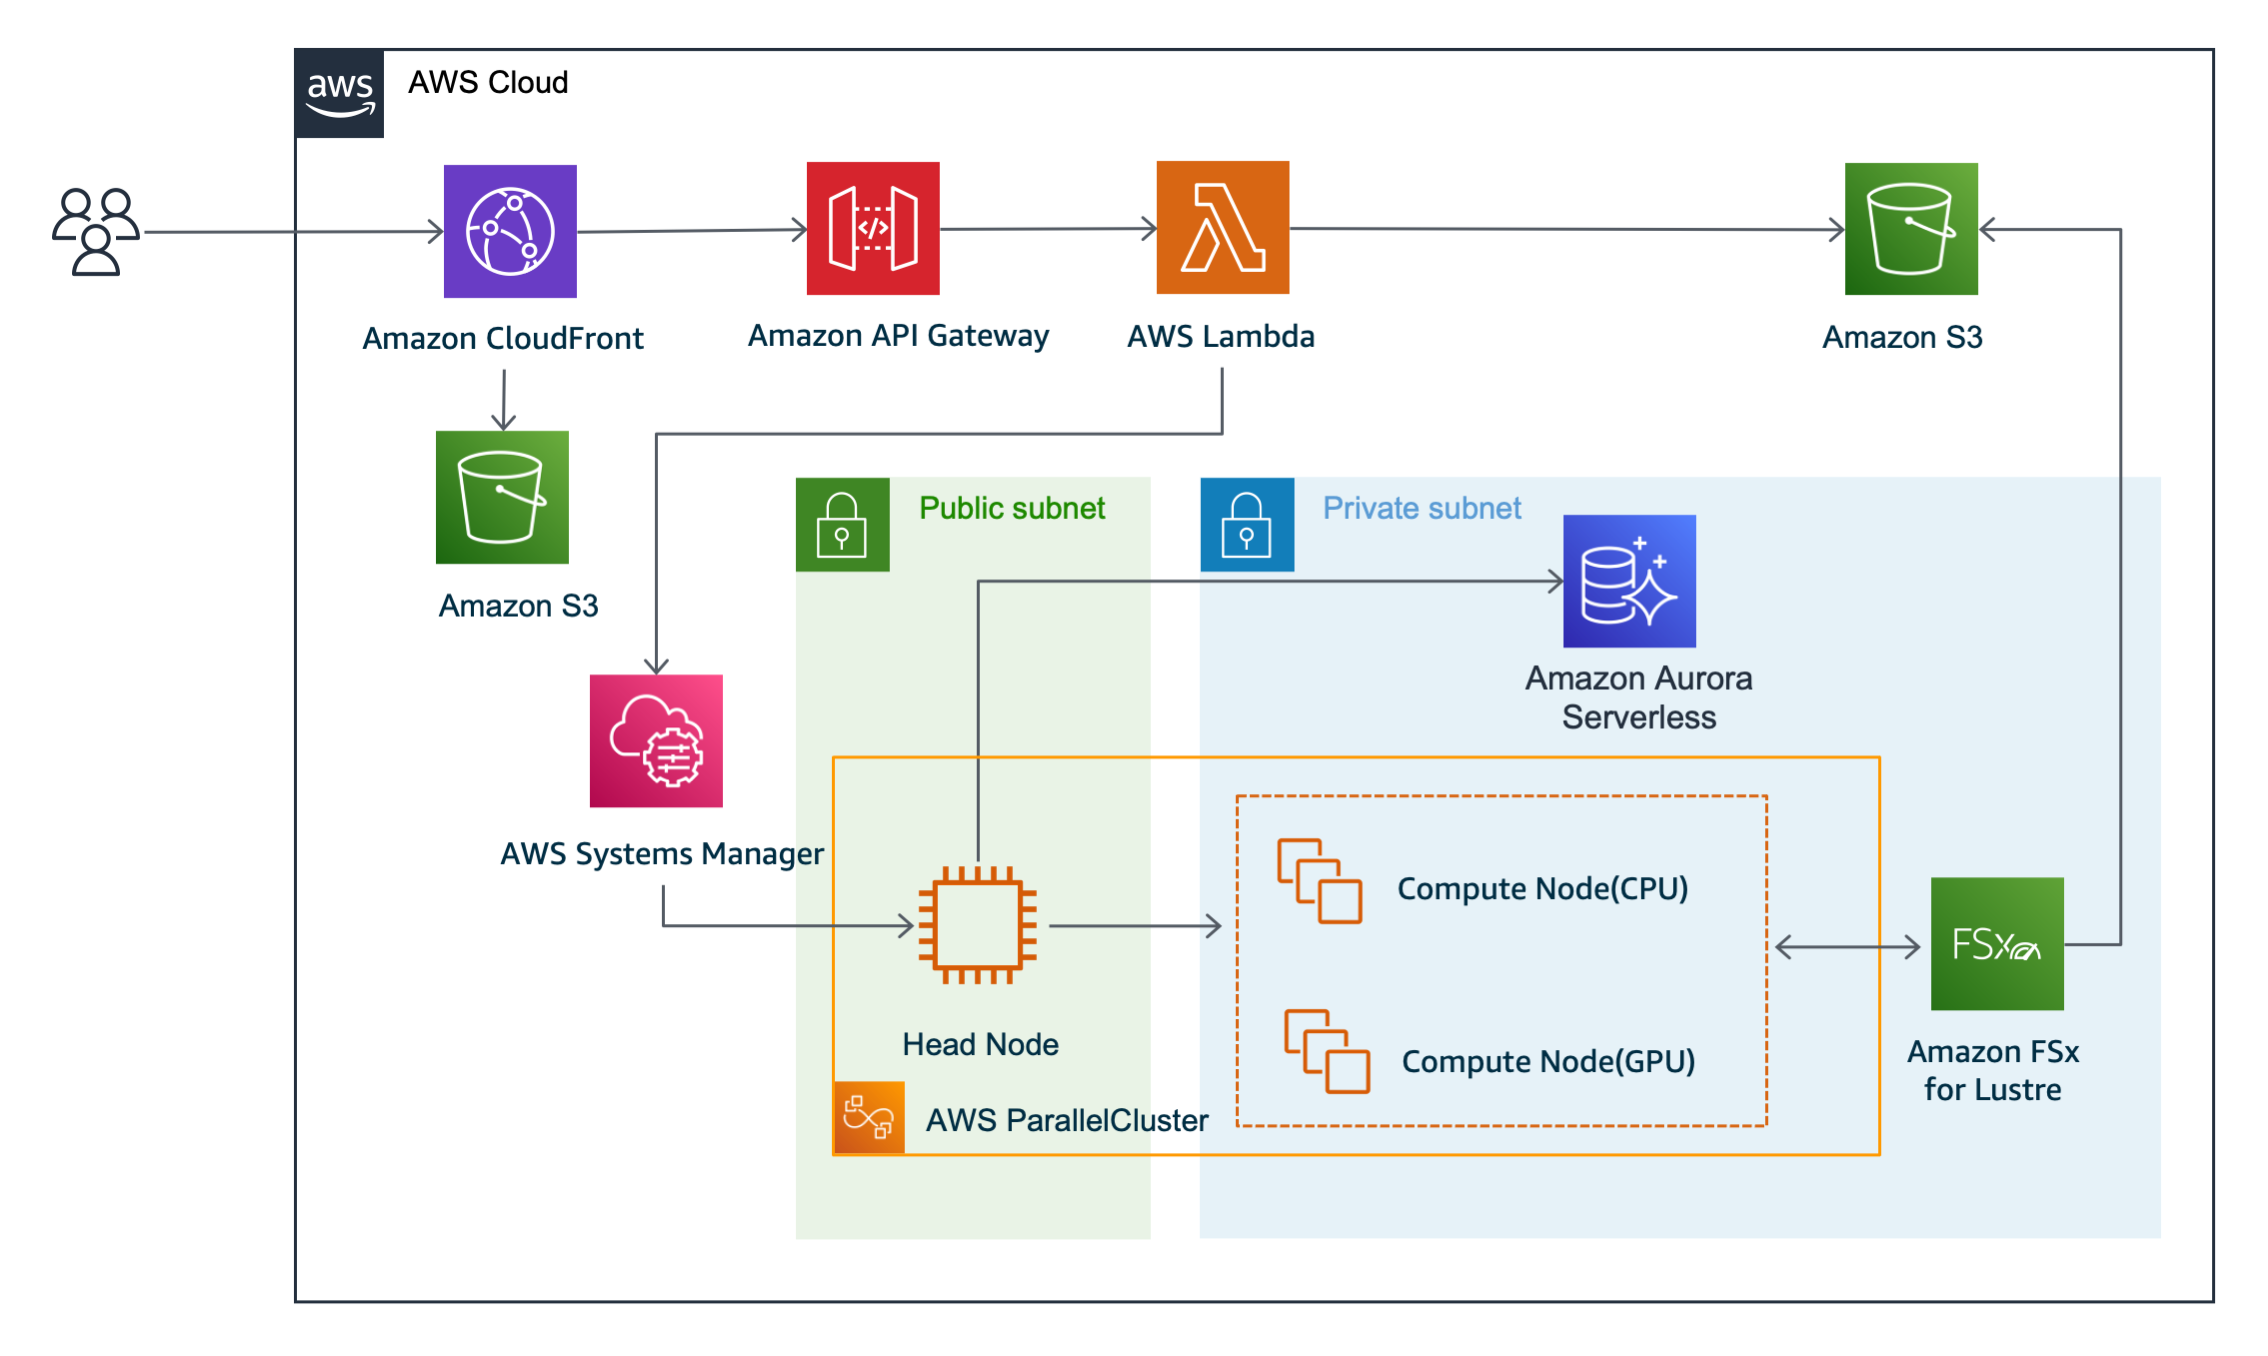
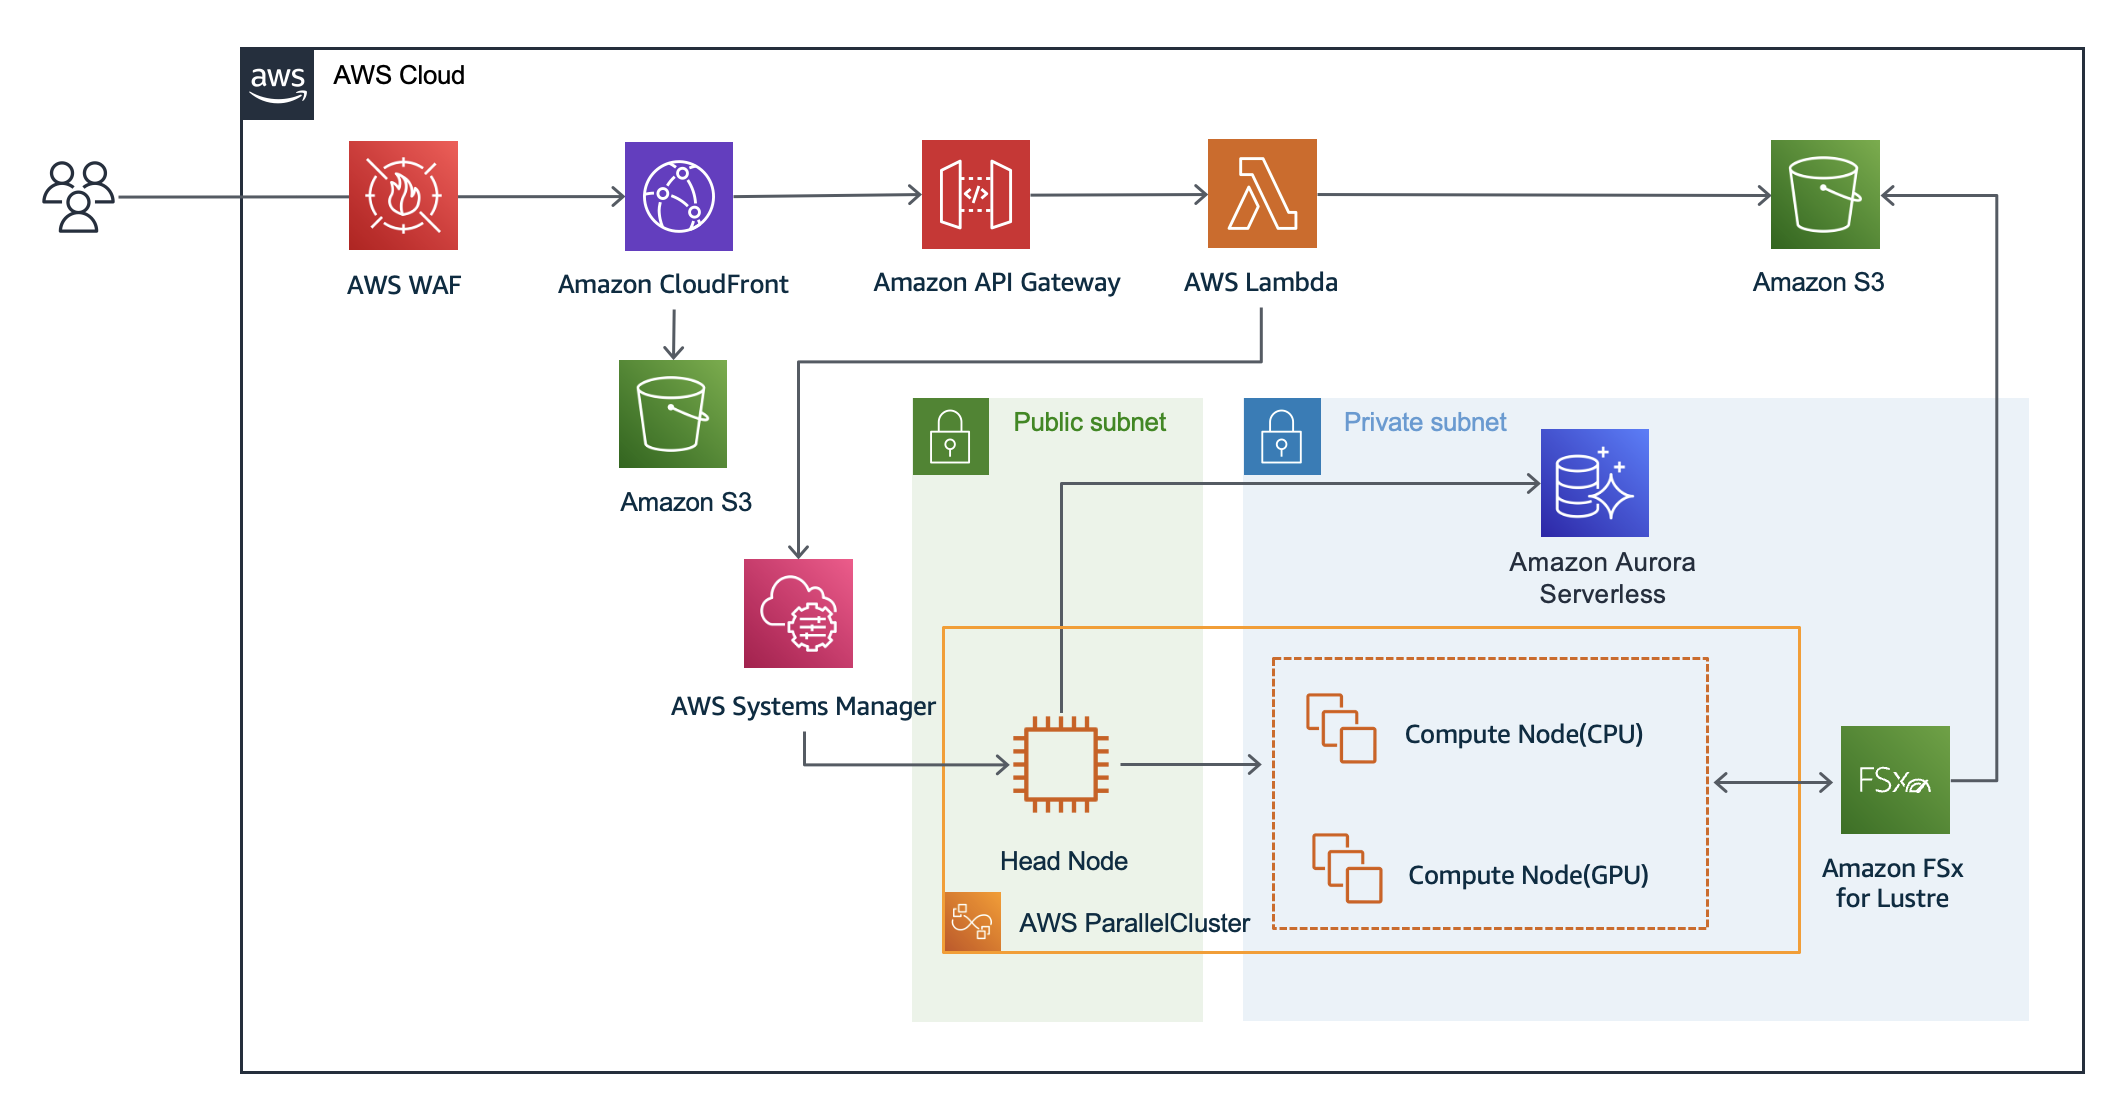
Add AWS WAF (#13)
* add wafv2
* update readme.md

Changed region(s): [[0.0, 0.0305, 0.9934, 0.9767]]

diff --git a/provisioning/stacks/constructs/waf-v2.ts b/provisioning/stacks/constructs/waf-v2.ts
@@ -1,0 +1,93 @@
+import { aws_wafv2 as waf } from 'aws-cdk-lib'
+import { Construct } from 'constructs'
+
+interface IPSetConstructProps {
+  scope: 'CLOUDFRONT' | 'REGIONAL'
+  allowIp4Ranges: string[]
+  allowIp6Ranges?: string[]
+}
+
+export class IPSetConstruct extends Construct {
+  readonly ipSet4: waf.CfnIPSet
+  readonly ipSet6: waf.CfnIPSet
+
+  constructor(scope: Construct, id: string, props: IPSetConstructProps) {
+    super(scope, id)
+
+    this.ipSet4 = new waf.CfnIPSet(this, 'IPSetV4', {
+      ipAddressVersion: 'IPV4',
+      scope: props.scope,
+      addresses: props.allowIp4Ranges
+    })
+
+    this.ipSet6 = new waf.CfnIPSet(this, 'IPSetV6', {
+      ipAddressVersion: 'IPV6',
+      scope: props.scope,
+      addresses: props.allowIp6Ranges || []
+    })
+  }
+}
+
+interface WAFv2ConstructProps {
+  scope: 'CLOUDFRONT' | 'REGIONAL'
+  allowIp4Set: waf.CfnIPSet
+  allowIp6Set?: waf.CfnIPSet
+  addPrototypingManagedRules?: Boolean
+}
+
+export class WAFv2Construct extends Construct {
+  readonly arn: string
+
+  constructor(scope: Construct, id: string, props: WAFv2ConstructProps) {
+    super(scope, id)
+
+    const rules = []
+
+    rules.push({
+      priority: 9,
+      name: 'WAFv2IpV4RuleSet',
+      action: { allow: {} },
+      visibilityConfig: {
+        sampledRequestsEnabled: true,
+        cloudWatchMetricsEnabled: true,
+        metricName: 'WAFv2IpV4RuleSet'
+      },
+      statement: {
+        ipSetReferenceStatement: {
+          arn: props.allowIp4Set.attrArn
+        }
+      }
+    })
+
+    if (props.allowIp6Set) {
+      rules.push({
+        priority: 10,
+        name: 'WAFv2IpV6RuleSet',
+        action: { allow: {} },
+        visibilityConfig: {
+          sampledRequestsEnabled: true,
+          cloudWatchMetricsEnabled: true,
+          metricName: 'WAFv2IpV6RuleSet'
+        },
+        statement: {
+          ipSetReferenceStatement: {
+            arn: props.allowIp6Set.attrArn
+          }
+        }
+      })
+    }
+
+    const webAcl = new waf.CfnWebACL(this, 'WebAcl', {
+      defaultAction: { block: {} },
+      scope: props.scope,
+      visibilityConfig: {
+        cloudWatchMetricsEnabled: true,
+        metricName: 'WebAcl',
+        sampledRequestsEnabled: true
+      },
+      rules: rules
+    })
+
+    this.arn = webAcl.attrArn
+  }
+}

diff --git a/provisioning/stacks/frontend-stack.ts b/provisioning/stacks/frontend-stack.ts
@@ -7,6 +7,7 @@ import {
   Duration,
   CfnOutput,
   aws_s3 as s3,
+  aws_wafv2 as wafv2,
   aws_iam as iam,
   aws_lambda as lambda,
   aws_s3_deployment as s3deploy,
@@ -18,12 +19,17 @@ import {
 import { Construct } from 'constructs'
 import { PythonFunction } from '@aws-cdk/aws-lambda-python-alpha'
 import { RestApi } from './constructs/rest-api'
+import { GlobalStack } from './global-stack'
+import { IPSetConstruct, WAFv2Construct } from './constructs/waf-v2'
 
 interface FrontendStackProps extends StackProps {
   vpc?: ec2.IVpc
   ssmInstanceId: string
   ssmCommandUsername: string
   storageBucketName: string
+  globalStack: GlobalStack
+  allowIp4Ranges?: string[]
+  allowIp6Ranges?: string[]
 }
 
 export class FrontendStack extends Stack {
@@ -33,6 +39,33 @@ export class FrontendStack extends Stack {
     const apigw = new RestApi(this, 'Api', {
       allowOrigins: ['*']
     })
+
+    let allowIpV4Set = undefined
+    let allowIpV6Set = undefined
+
+    if (props?.allowIp4Ranges !== undefined) {
+      const ipSet = new IPSetConstruct(this, 'IpSet', {
+        scope: 'REGIONAL',
+        allowIp4Ranges: props.allowIp4Ranges,
+        allowIp6Ranges: props.allowIp6Ranges
+      })
+
+      allowIpV4Set = ipSet.ipSet4
+      allowIpV6Set = ipSet.ipSet6
+    }
+
+    if (allowIpV4Set !== undefined) {
+      const waf = new WAFv2Construct(this, 'IPRestrictionWAFv2', {
+        scope: 'REGIONAL',
+        allowIp4Set: allowIpV4Set,
+        allowIp6Set: allowIpV6Set
+      })
+
+      new wafv2.CfnWebACLAssociation(this, 'APIGatewayWAFAssociation', {
+        webAclArn: waf.arn,
+        resourceArn: apigw.resourceArn
+      })
+    }
 
     const func = new PythonFunction(this, 'ApiHandler', {
       runtime: lambda.Runtime.PYTHON_3_9,
@@ -74,7 +107,9 @@ export class FrontendStack extends Stack {
     const websiteIdentity = new cloudfront.OriginAccessIdentity(this, 'WebsiteIdentity')
     websiteBucket.grantRead(websiteIdentity)
 
+    const globalWAFv2Arn = props.globalStack.getWAFv2ARN(this, 'GlobalWAFv2ARN')
     const websiteDistribution = new cloudfront.CloudFrontWebDistribution(this, 'WebsiteDistribution', {
+      webACLId: globalWAFv2Arn,
       errorConfigurations: [
         {
           errorCachingMinTtl: 300,

diff --git a/provisioning/bin/provisioning.ts b/provisioning/bin/provisioning.ts
@@ -1,22 +1,44 @@
 import * as cdk from 'aws-cdk-lib'
 import { Alphafold2ServiceStack } from '../stacks/alphafold2-service-stack'
 import { FrontendStack } from '../stacks/frontend-stack'
+import { GlobalStack } from '../stacks/global-stack'
+
+// Alphafold2ServiceStack dependencies
+const c9Eip = 'your-cloud9-ip'
+
+// FrontendStack dependencies
+const allowIp4Ranges = ['your-global-ip-v4']
+const allowIp6Ranges = ['your-global-ip-v6']
+const ssmInstanceId = 'your-headnode-instanceid'
 
 const CDK_ENV = process.env.CDK_ENV ? `-${process.env.CDK_ENV}` : ''
 
 const app = new cdk.App()
+const globalStack = new GlobalStack(app, `GlobalStack${CDK_ENV}`, {
+  env: {
+    region: 'us-east-1'
+  },
+  wafv2: {
+    allowIp4Ranges: allowIp4Ranges,
+    allowIp6Ranges: allowIp6Ranges
+  }
+})
+
 const alphafold = new Alphafold2ServiceStack(app, `Alphafold2ServiceStack${CDK_ENV}`, {
   env: {
     region: 'us-east-1'
   },
-  c9Eip: 'your-cloud9-ip'
+  c9Eip: c9Eip
 })
 
 const frontend = new FrontendStack(app, `FrontendStack${CDK_ENV}`, {
   env: {
     region: 'us-east-1'
   },
-  ssmInstanceId: 'your-headnode-instanceid',
+  ssmInstanceId: ssmInstanceId,
   ssmCommandUsername: 'ubuntu',
-  storageBucketName: alphafold.bucket.bucketName
-})
+  storageBucketName: alphafold.bucket.bucketName,
+  globalStack: globalStack,
+  allowIp4Ranges: allowIp4Ranges,
+  allowIp6Ranges: allowIp6Ranges
+}).addDependency(globalStack)

diff --git a/provisioning/stacks/global-stack.ts b/provisioning/stacks/global-stack.ts
@@ -1,0 +1,41 @@
+import { StackProps, Stack, CfnOutput } from 'aws-cdk-lib'
+import { Construct } from 'constructs'
+import { RemoteOutputs } from 'cdk-remote-stack'
+import { WAFv2Construct, IPSetConstruct } from './constructs/waf-v2'
+
+const OUTPUT_PATH_WAF_V2_ARN = 'GlobalWAFv2ARN'
+
+export interface GlobalStackProps extends StackProps {
+  wafv2: {
+    allowIp4Ranges: string[]
+    allowIp6Ranges: string[]
+  }
+}
+
+export class GlobalStack extends Stack {
+  constructor(scope: Construct, id: string, props: GlobalStackProps) {
+    super(scope, id, props)
+
+    const allowIpSet = new IPSetConstruct(this, 'IpSet', {
+      scope: 'CLOUDFRONT',
+      allowIp4Ranges: props.wafv2.allowIp4Ranges,
+      allowIp6Ranges: props.wafv2.allowIp6Ranges
+    })
+
+    const waf = new WAFv2Construct(this, 'GlobalWaf', {
+      scope: 'CLOUDFRONT',
+      allowIp4Set: allowIpSet.ipSet4,
+      allowIp6Set: allowIpSet.ipSet6
+    })
+
+    new CfnOutput(this, OUTPUT_PATH_WAF_V2_ARN, {
+      value: waf.arn
+    })
+  }
+
+  getWAFv2ARN(scope: Stack, id: string): string {
+    const outputs = new RemoteOutputs(scope, 'GlobalWAFv2ARNRemoteOutputs', { stack: this })
+    const wafArn = outputs.get(OUTPUT_PATH_WAF_V2_ARN)
+    return wafArn
+  }
+}

diff --git a/provisioning/stacks/constructs/rest-api.ts b/provisioning/stacks/constructs/rest-api.ts
@@ -13,6 +13,7 @@ interface RestApiProps extends StackProps {
 export class RestApi extends Construct {
   public readonly restApi: apiGateway.RestApi
   public readonly endpoint: string
+  public readonly resourceArn: string
   public apiKey: apiGateway.IApiKey
   private readonly resources: { [key: string]: apiGateway.IResource }
 
@@ -65,6 +66,7 @@ export class RestApi extends Construct {
     const stageName = this.restApi.deploymentStage.stageName
 
     this.endpoint = `https://${restApiId}.execute-api.${region}.amazonaws.com/${stageName}`
+    this.resourceArn = `arn:aws:apigateway:${region}::/restapis/${restApiId}/stages/${stageName}`
   }
 
   addResource(
